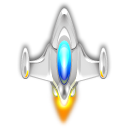
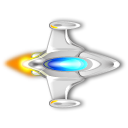
Ship is now properly rotating, without quality loss

Changed region(s): [[0.0, 0.0312, 0.9688, 1.0]]

diff --git a/game.py b/game.py
@@ -24,6 +24,15 @@ background = pygame.Surface(screen.get_size())
 background = background.convert()
 background.fill((0, 0, 0))
 
+def rot_center(image, angle):
+    """rotate an image while keeping its center and size"""
+    orig_rect = image.get_rect()
+    rot_image = pygame.transform.rotate(image, angle)
+    rot_rect = orig_rect.copy()
+    rot_rect.center = rot_image.get_rect().center
+    rot_image = rot_image.subsurface(rot_rect).copy()
+    return rot_image
+
 class Player:
 	def __init__(self):
 		self.x = 0
@@ -167,7 +176,8 @@ def draw():
 		pygame.draw.circle(screen, (255,0,0), (int(i.x), int(i.y)), 10)
 	pygame.draw.line(screen, (255,255,255), (players[0].ch_x1, players[0].ch_y1), (players[0].ch_x2, players[0].ch_y2))
 	#screen.blit(players[0].image, (int(players[0].x) - players[0].width/2,int(players[0].y) - players[0].height/2))
-	screen.blit(pygame.transform.rotate(players[0].image, -math.degrees(players[0].ch_angle)),(int(players[0].x) - players[0].width/2,int(players[0].y) - players[0].height/2))
+	#screen.blit(pygame.transform.rotate(players[0].image, -math.degrees(players[0].ch_angle)),(int(players[0].x) - players[0].width/2,int(players[0].y) - players[0].height/2))
+	screen.blit(pygame.transform.smoothscale(rot_center(players[0].image, -math.degrees(players[0].ch_angle)),(32,32)), (players[0].x-16, players[0].y-16))
 	pygame.display.flip()
 
 while True:
